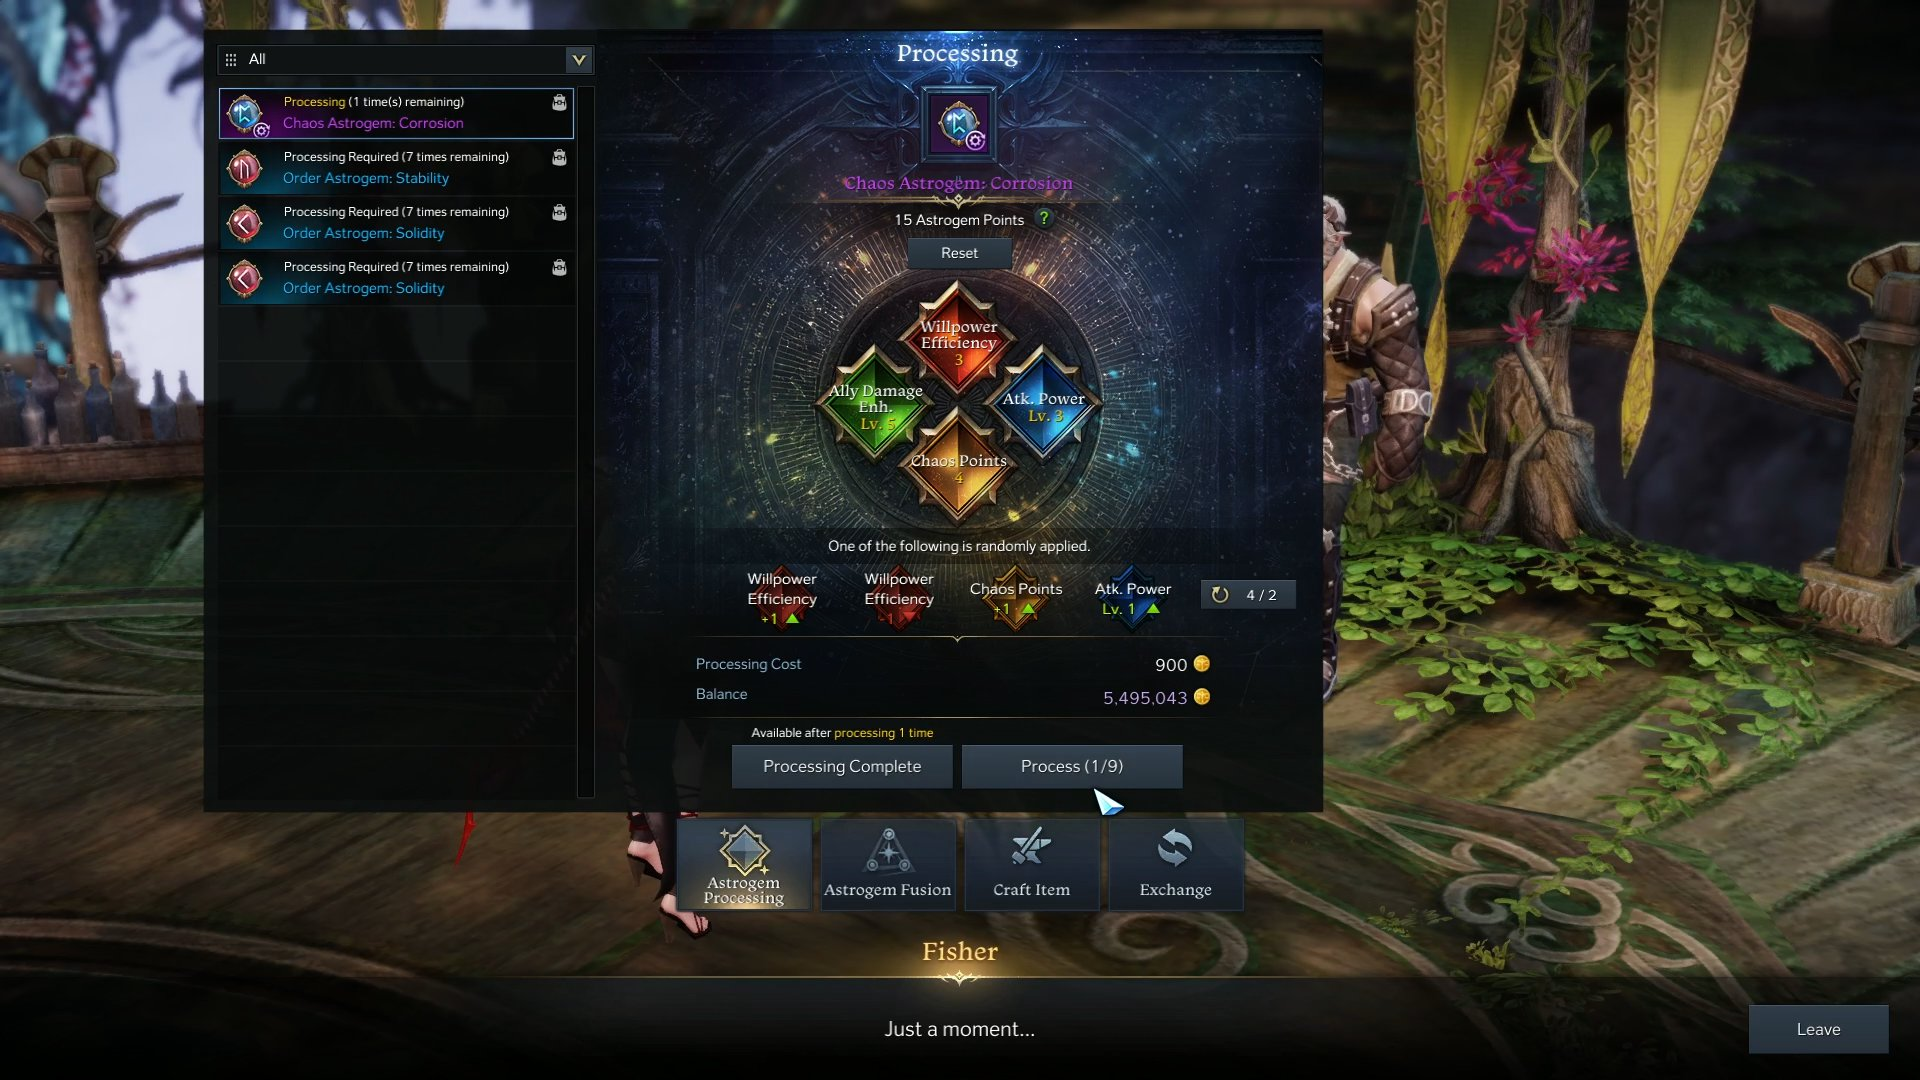
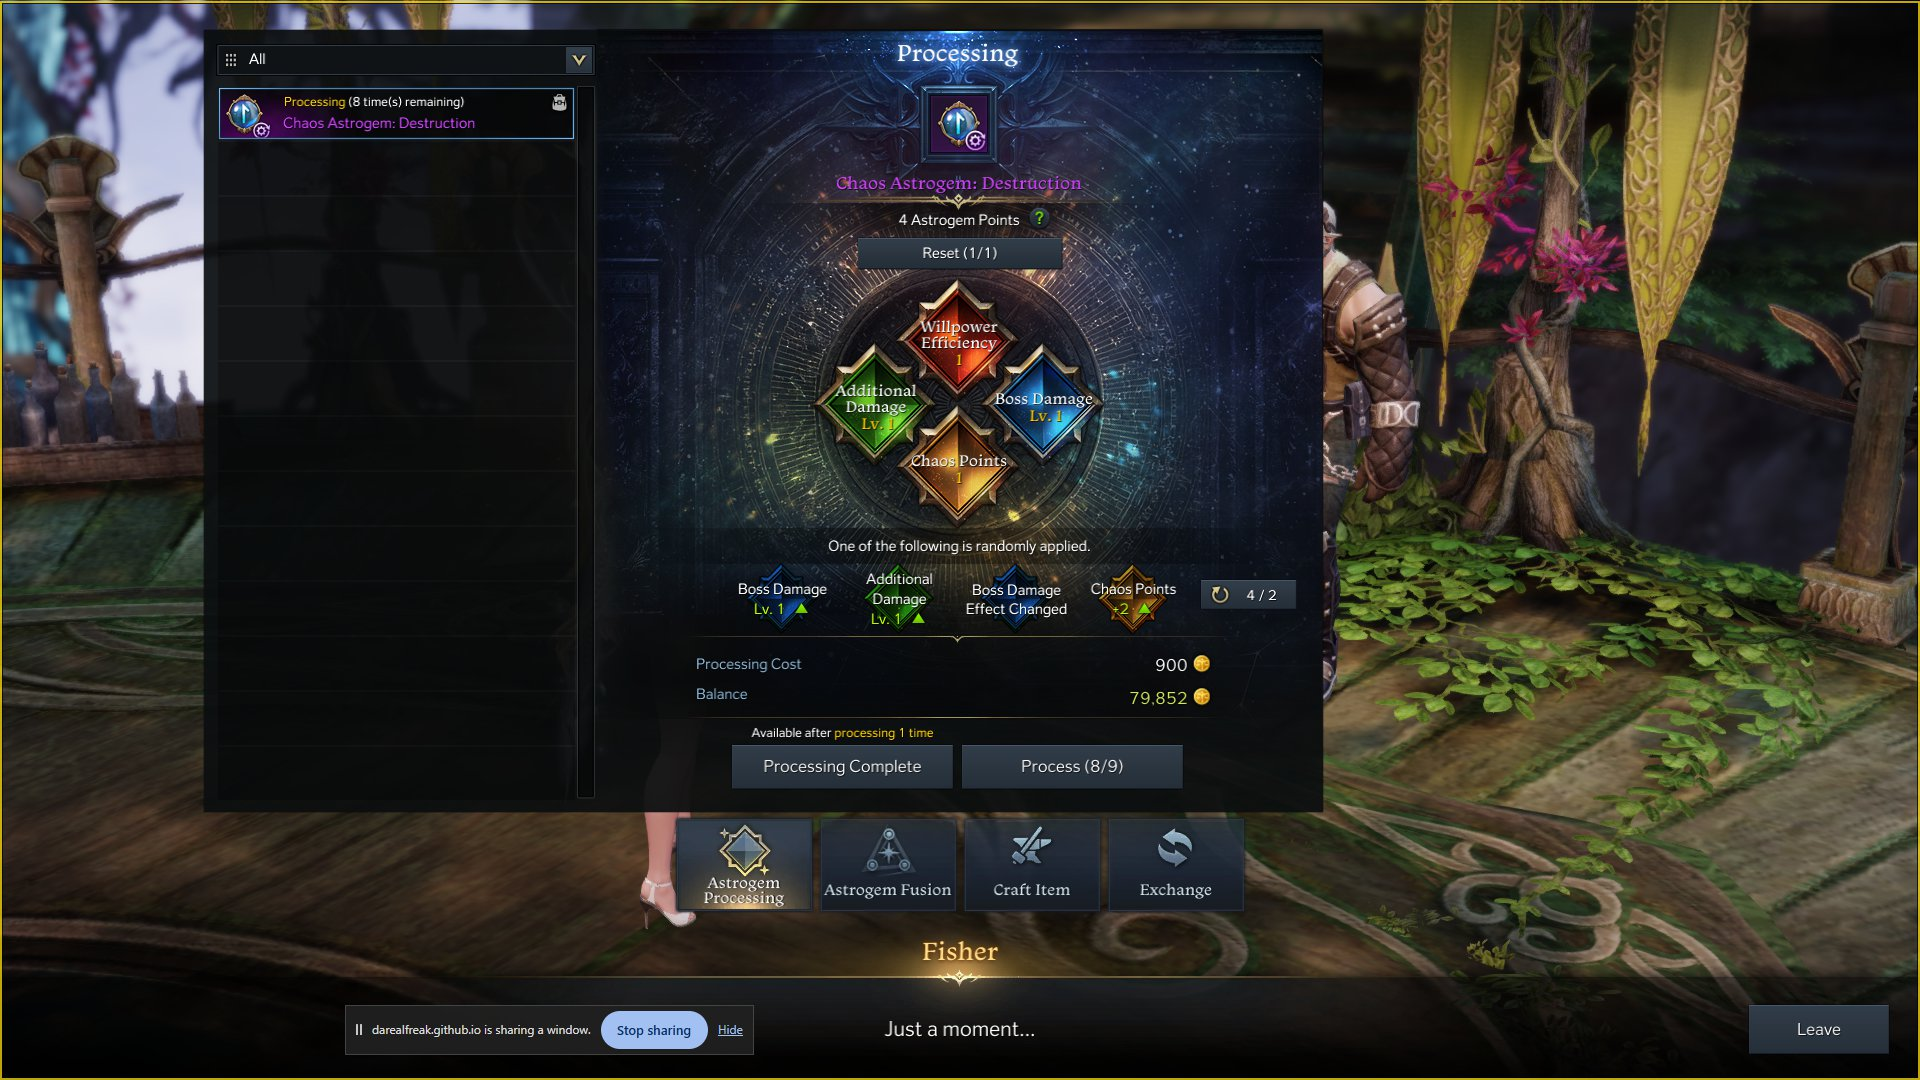
test(vision): re-capture reroll 3/4 examples on the 2026-07 UI
Replace the last two pre-update example screenshots with new-UI shots
(user-provided, counters "3 / 1" rare and "4 / 2" epic). Their option
cards now detect like every other example; ground truth pinned in
test_new_ui_detection.py and the detection.json golden regenerated.
The whole examples/ covering set is now post-2026-07.

diff --git a/tests/test_new_ui_detection.py b/tests/test_new_ui_detection.py
@@ -128,6 +128,20 @@ _UI_UPDATE_CARDS = {
         ("order", "1_line_-1"),                 # Order Points -1 (red on gold)
         ("attack_power", "1_line_lvl-1"),       # Atk. Power Lv. 1 (down)
     ],
+    # New-UI replacements for the last two pre-update shots (2026-07-16);
+    # kept in the covering set for reroll counts 3 and 4.
+    "reroll_3.jpg": [
+        ("order", "1_line_+1"),                 # Order Points +1
+        ("ally_damage", "2_line_lvl+1"),        # Ally Damage Enh. Lv. 1
+        ("attack_power", "1_line_lvl+1"),       # Atk. Power Lv. 1
+        ("cost", "cost+100"),                   # Processing Cost +100%
+    ],
+    "reroll_4.jpg": [
+        ("boss_damage", "1_line_lvl+1"),        # Boss Damage Lv. 1
+        ("additional_damage", "2_line_lvl+1"),  # Additional Damage Lv. 1
+        ("boss_damage", "1_line_effect_changed"),  # Boss Damage Effect Changed
+        ("chaos", "1_line_+2"),                 # Chaos Points +2
+    ],
 }
 
 _VARIANT_SUFFIX = re.compile(r"_\d+$")
@@ -198,6 +212,19 @@ class TestNewUiOptionDetection(unittest.TestCase):
                                         C.THRESHOLD_OPTION_NAME, label)
                 self.assertGreaterEqual(opt.delta_score,
                                         C.THRESHOLD_OPTION_DELTA, label)
+
+    def test_reroll_counts_3_and_4_on_new_ui(self):
+        # reroll_3.jpg / reroll_4.jpg are new-UI shots (2026-07-16) pinning
+        # the higher reroll-counter values; the counter renders as
+        # "N / base" in-game and the template key is the available count.
+        d3 = self.ui_update_results["reroll_3.jpg"]
+        self.assertEqual(d3.rerolls, "3")
+        self.assertEqual(d3.current_step, 5)
+        self.assertEqual(d3.total_steps, 7)   # rare (base 1 free reroll)
+        d4 = self.ui_update_results["reroll_4.jpg"]
+        self.assertEqual(d4.rerolls, "4")
+        self.assertEqual(d4.current_step, 8)
+        self.assertEqual(d4.total_steps, 9)   # epic (base 2 free rerolls)
 
     def test_no_variant_suffix_leaks(self):
         # New-UI variants ("cost+100_02", ...) must be stripped by detect():